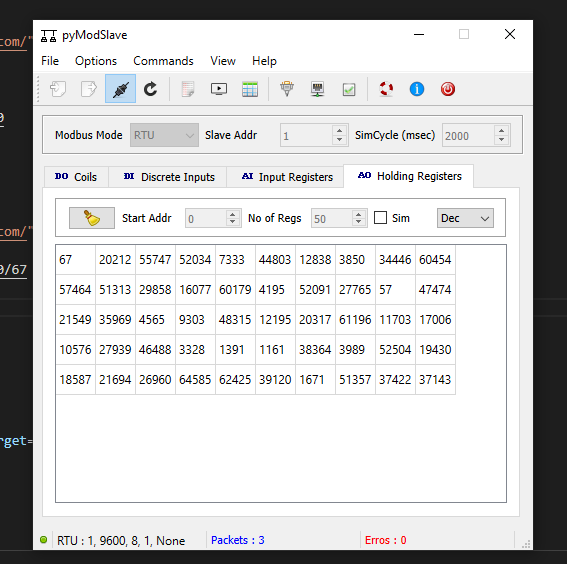
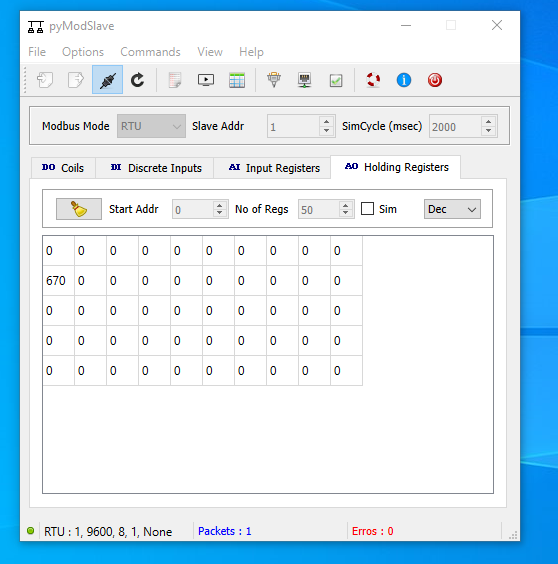
Put corrections.

diff --git a/README.md b/README.md
@@ -45,6 +45,8 @@ http://localhost:3000/test/holding/get/0
 http://localhost:3000/test/holding/set/0/67
 
 
+<img src="resources/Postman put.png">
+
 <img src="resources/Modbus client put result.png">
 
 You can see the writing Modbus data (67) on the first Modbus register.
